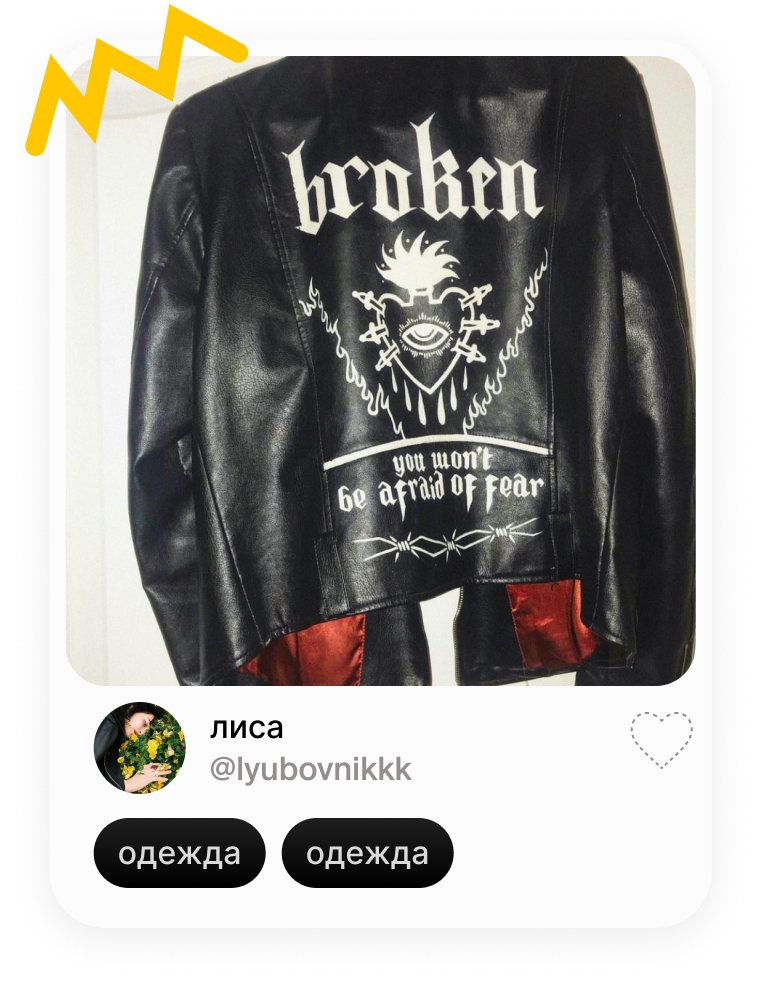
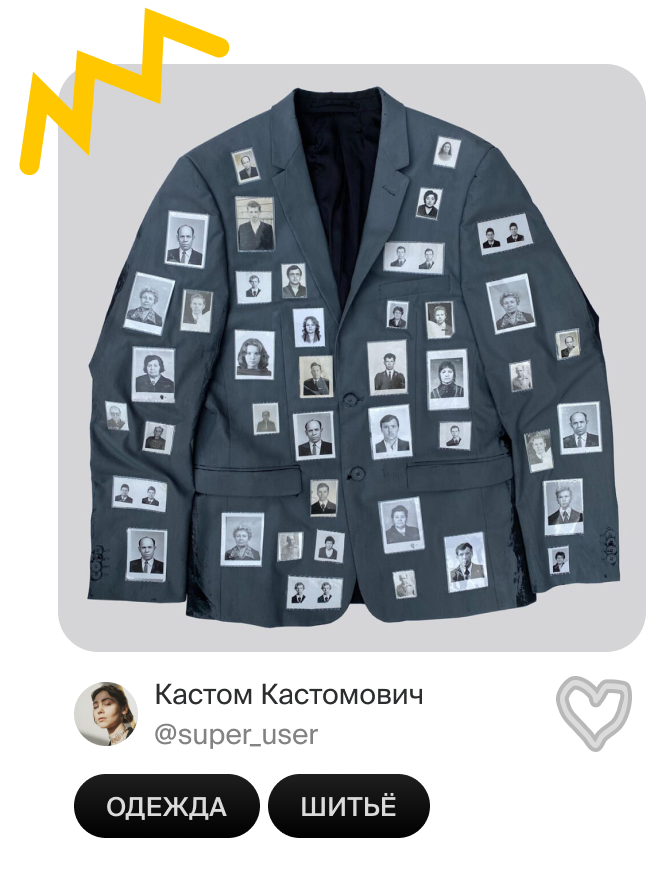
главная дс

diff --git a/app/assets/stylesheets/main.css b/app/assets/stylesheets/main.css
@@ -14,59 +14,40 @@
         margin: 20px auto 0;
         /* background-color: aqua; */
     }
-}
 
-.MainPageSlider {
-    grid-column: 1 / 17;
-    height: 100%;
-    border-radius: 42px;
-
-    overflow-x: auto;
-}
-
-.MainPageSliderText {
-    margin-top: 44px;
-    margin-left: 44px;
-    font-family: Suisse Intl;
-    font-size: 48px;
-    font-style: normal;
-    font-weight: 500;
-    line-height: 110%; /* 52.8px */
-    color: white;
-}
-
-.MainPageSliderRails {
-    width: 100%;
-    height: 100%;
-    display: inline-flex;
-    align-items: flex-start;
-    gap: 20px;
-}
-
-.MainPageSlide {
-    width: 100%;
-    height: 100%;
-    background-repeat: no-repeat;
-    background-size: cover; 
-    background-position: center;
-
-    &.N-1 {
-        background-image: url("/assets/main/Gal2.jpg");
-    }
-
-    &.N-2 {
-        background-image: url("/assets/main/Gal2.jpg");
+    .C_IdeaCards,
+    .C_TutorialCards {
+        display: flex;
+        /* margin: 50px auto; */
+        /* width: calc(100% - 52px); */
+        width: 100%;
+        max-width: 1868px;
+        align-items: flex-start;
+        align-content: flex-start;
+        gap: 20px 20px;
+        flex-wrap: wrap;
     }
 }
 
-.MainPageLOOK {
-    grid-column: 17 / 25;
-    padding-top: 100%;
+.MainLook {
+    grid-column: 1 / 13;
+    padding-top: 48.6%;
     background-repeat: no-repeat;
     background-size: cover; 
     background-position: center;
-    background-image: url("/assets/main/MainLOOK.jpg");
-    border-radius: 42px;
+    background-image: url("/assets/main/MainLook.jpg");
+    border-radius: 31px;
+}
+
+.MainTut {
+    grid-column: 13 / 25;
+    padding-top: 48.6%;
+    background-repeat: no-repeat;
+    background-size: cover; 
+    background-position: center;
+    background-image: url("/assets/main/MainTut.jpg");
+    border-radius: 31px;
+    margin-top: 20px;
 }
 
 .MainPageSelectionText {
@@ -85,44 +66,43 @@
 }
 
 .MainPageSelection {
-    margin-top: 20px;
     position: relative;
     padding-top: 100%;
     background-repeat: no-repeat;
     background-size: cover; 
     background-position: center;
     
-    &.Yellow {
+    &.Eco {
         grid-column: 1 / 7;
-        background-image: url("/assets/main/MainSelectionYellow.png");
+        background-image: url("/assets/main/Eco.svg");
+        margin-top: 20px;
     }
 
-    &.Gray {
+    &.Sew {
         grid-column: 7 / 13;
-        background-image: url("/assets/main/MainSelectionGray.png");
+        background-image: url("/assets/main/Sew.svg");
+        margin-top: 20px;
     }
 
-    &.Orange {
+    &.Profi {
         grid-column: 13 / 19;
-        background-image: url("/assets/main/MainSelectionOrange.png");
+        background-image: url("/assets/main/Profi.svg");
     }
 
-    &.DarkGray {
+    &.Easy {
         grid-column: 19 / 25;
-        background-image: url("/assets/main/MainSelectionDarkGray.png");
-    }
-
-    
+        background-image: url("/assets/main/Easy.svg");
+    }    
 }
 
 .MainPageTitle {
     margin-top: 46px;
     margin-bottom: 26px;
-    width: fit-content;
+    width: calc(100% - 52px);;
     padding: 17px 20px;
     background: black;
 
-    text-align: center;
+    /* text-align: center; */
     font-family: Suisse Intl;
     font-size: 40px;
     font-style: normal;
@@ -132,44 +112,46 @@
     color: var(--lightgray);
 }
 
-.MainIdeaCard {
-    /* margin-top: 20px; */
-    display: flex;
-
-    &.N-1 {
-        grid-column: 19 / 25;
+@media only screen and (max-width: 1024px) {
+    .MainLook {
+        grid-column: 1 / 25;
     }
 
-    &.N-1 {
-        grid-column: 1 / 7;
+    .MainTut {
+        grid-column: 1 / 25;
     }
 
-    &.N-2 {
-        grid-column: 7 / 13;
-    }
-
-    &.N-3 {
-        grid-column: 13 / 19;
-    }
-
-    &.N-4 {
-        grid-column: 19 / 25;
+    .MainPageSelection {
+        &.Eco {
+            display: none;
+            /* grid-column: 1 / 7; */
+        }
+    
+        &.Sew {
+            display: none;
+            /* grid-column: 7 / 13; */
+        }
+    
+        &.Profi {
+            margin-top: 20px;
+            grid-column: 1 / 13;
+        }
+    
+        &.Easy {
+            margin-top: 20px;
+            grid-column: 13 / 25;
+        }    
     }
 }
 
-.MainTutorialPostCard {
-    margin-top: 20px;
-    display: flex;
+@media only screen and (max-width: 767px) {
+    .S_IdeaCardsPage,
+    .S_TutorialCardsPage {
 
-    &.N-1 {
-        grid-column: 1 / 9;
-    }
-
-    &.N-2 {
-        grid-column: 9 / 17;
-    }
-
-    &.N-3 {
-        grid-column: 17 / 25;
+        .C_IdeaCards,
+        .C_TutorialCards {
+            /* width: calc(100% - 32px); */
+            width: 100%;
+        }
     }
 }

diff --git a/app/assets/stylesheets/about.css b/app/assets/stylesheets/about.css
@@ -13,6 +13,7 @@
 .FirstScreenContent,
 .SubscriptionScreenContent {
     position: relative;
+    /* margin-bottom: 110px; */
     display: flex;
     flex-direction: column;
     width: 100%;
@@ -416,6 +417,22 @@
     z-index: 2;
 }
 
+.Icons {
+    position: absolute;
+    margin-top: 110px;
+    margin-left: 170px;
+    /* margin-bottom: 12px; */
+
+    background-image: url("/assets/about/Icons.png");
+    background-repeat: no-repeat;
+    background-size: contain;
+
+    width: 1110px;
+    height: 172px;
+
+    z-index: 4;
+}
+
 .OurAdvantagesTextBlocks {
     margin-bottom: 46px;
     display: flex;
@@ -726,7 +743,7 @@
 
 .SubscriptionBlock {
     margin-top: 210px;
-    /* margin-bottom: 210px; */
+    margin-bottom: 200px;
     display: flex;
     flex-direction: column;
     align-items: center;

diff --git a/app/assets/stylesheets/application.css b/app/assets/stylesheets/application.css
@@ -15,7 +15,6 @@
  *= require vars
  *= require main
  *= require about
- *= require profile
  *= require create_post
  *= require posts
  *= require post_pages

diff --git a/app/assets/stylesheets/posts.css b/app/assets/stylesheets/posts.css
@@ -62,3 +62,11 @@
     overflow: hidden;
     white-space: nowrap;
 }
+
+.ProfilePage {
+    margin: 100px auto;
+}
+
+.UserEditEmail {
+    color: red;
+}

diff --git a/app/controllers/welcome_controller.rb b/app/controllers/welcome_controller.rb
@@ -11,6 +11,14 @@ class WelcomeController < ApplicationController
     @recom_post8 = Post.find_by(id: "22")
     @recom_post9 = Post.find_by(id: "26")
     @recom_post10 = Post.find_by(id: "25")
+    @recom_post11 = Post.find_by(id: "8")
+    @recom_post12 = Post.find_by(id: "12")
+    @recom_post13 = Post.find_by(id: "13")
+    @recom_post14 = Post.find_by(id: "10")
+    @recom_post15 = Post.find_by(id: "17")
+    @recom_post16 = Post.find_by(id: "9")
+    @recom_post17 = Post.find_by(id: "14")
+    @recom_post18 = Post.find_by(id: "16")
   end
 
   def about
